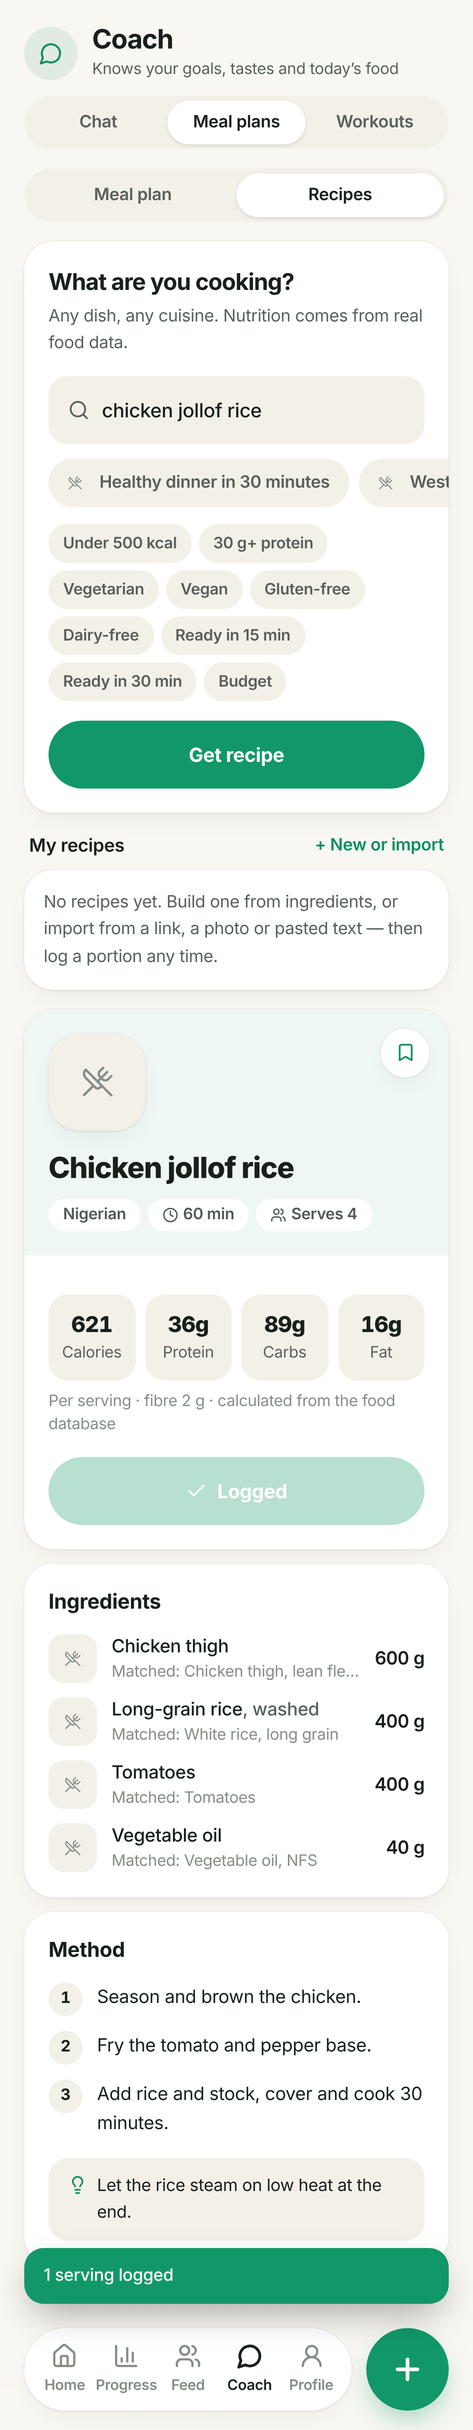
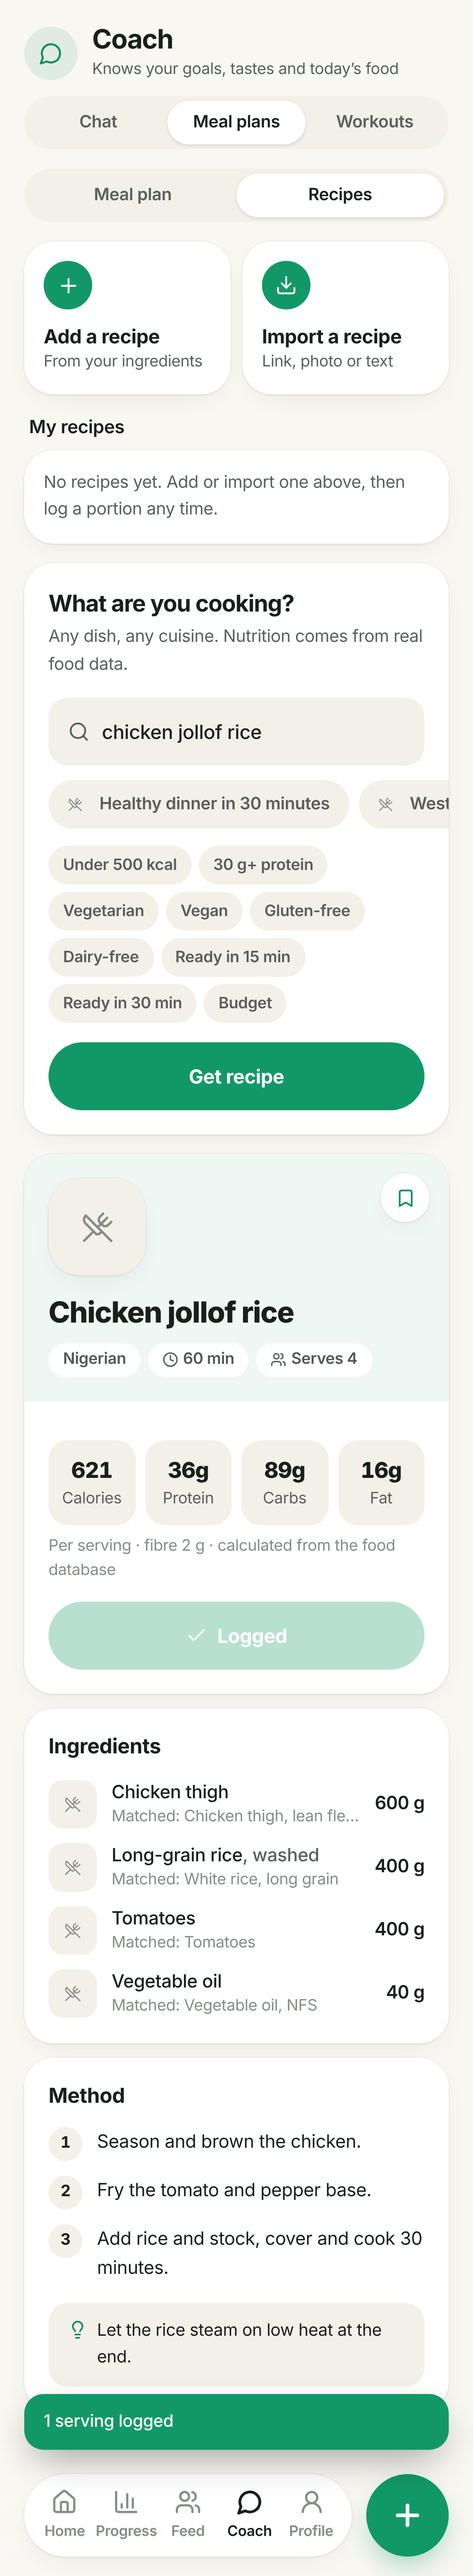
Recipes tab: Add a recipe and Import a recipe at the top, then My recipes
Claude-Session: https://claude.ai/code/session_01G3MPpPWUuKqpqQt2Wb1c6d

diff --git a/src/components/RecipeView.tsx b/src/components/RecipeView.tsx
@@ -1,7 +1,7 @@
 import { AllergyTextBanner } from './Allergy';
 import { useMemo, useState } from 'react';
 import { Link } from 'react-router-dom';
-import { Bookmark, BookmarkCheck, Check, ChefHat, ChevronRight, Clock, Lightbulb, Loader2, Search, Trash2, Users } from 'lucide-react';
+import { Bookmark, BookmarkCheck, Check, ChefHat, ChevronRight, Download, Plus, Clock, Lightbulb, Loader2, Search, Trash2, Users } from 'lucide-react';
 import { useStore } from '@/store/useStore';
 import { useFoodDb } from '@/lib/hooks';
 import { confidentMatch, splitName } from '@/lib/foods';
@@ -71,6 +71,20 @@ export function RecipeView() {
 
   return (
     <div className="space-y-4 pb-6">
+      {/* Your own recipes first: add one from ingredients or import it — free, no AI needed. */}
+      <div className="grid grid-cols-2 gap-2.5">
+        <Link to="/recipe" className="card flex flex-col items-start p-4 transition active:scale-[.98]">
+          <span className="grid h-10 w-10 place-items-center rounded-full bg-primary text-on-primary"><Plus size={19} /></span>
+          <span className="mt-2.5 font-bold">Add a recipe</span>
+          <span className="text-[13px] text-silver">From your ingredients</span>
+        </Link>
+        <Link to="/recipe?import=1" className="card flex flex-col items-start p-4 transition active:scale-[.98]">
+          <span className="grid h-10 w-10 place-items-center rounded-full bg-primary text-on-primary"><Download size={18} /></span>
+          <span className="mt-2.5 font-bold">Import a recipe</span>
+          <span className="text-[13px] text-silver">Link, photo or text</span>
+        </Link>
+      </div>
+      <MyRecipes />
       <PlanBadge needs="plus" what="AI recipes with full nutrition" />
       <section className="card p-5">
         <p className="text-[19px] font-bold tracking-tight">What are you cooking?</p>
@@ -112,8 +126,6 @@ export function RecipeView() {
           </div>
         </section>
       )}
-
-      <MyRecipes />
 
       {recipe && (
         <RecipeCard
@@ -234,10 +246,10 @@ function MyRecipes() {
     <section>
       <div className="mb-2 flex items-center justify-between px-1">
         <p className="text-[15px] font-semibold">My recipes {mine.length > 0 && <span className="font-normal text-silver">· made or imported</span>}</p>
-        <Link to="/recipe" className="text-sm font-semibold text-accent">+ New or import</Link>
+
       </div>
       {mine.length === 0 ? (
-        <Link to="/recipe" className="card block p-4 text-sm text-silver">No recipes yet. Build one from ingredients, or import from a link, a photo or pasted text — then log a portion any time.</Link>
+        <p className="card p-4 text-sm text-silver">No recipes yet. Add or import one above, then log a portion any time.</p>
       ) : (
         <div className="card divide-y divide-line p-1.5">
           {mine.map((r) => (
